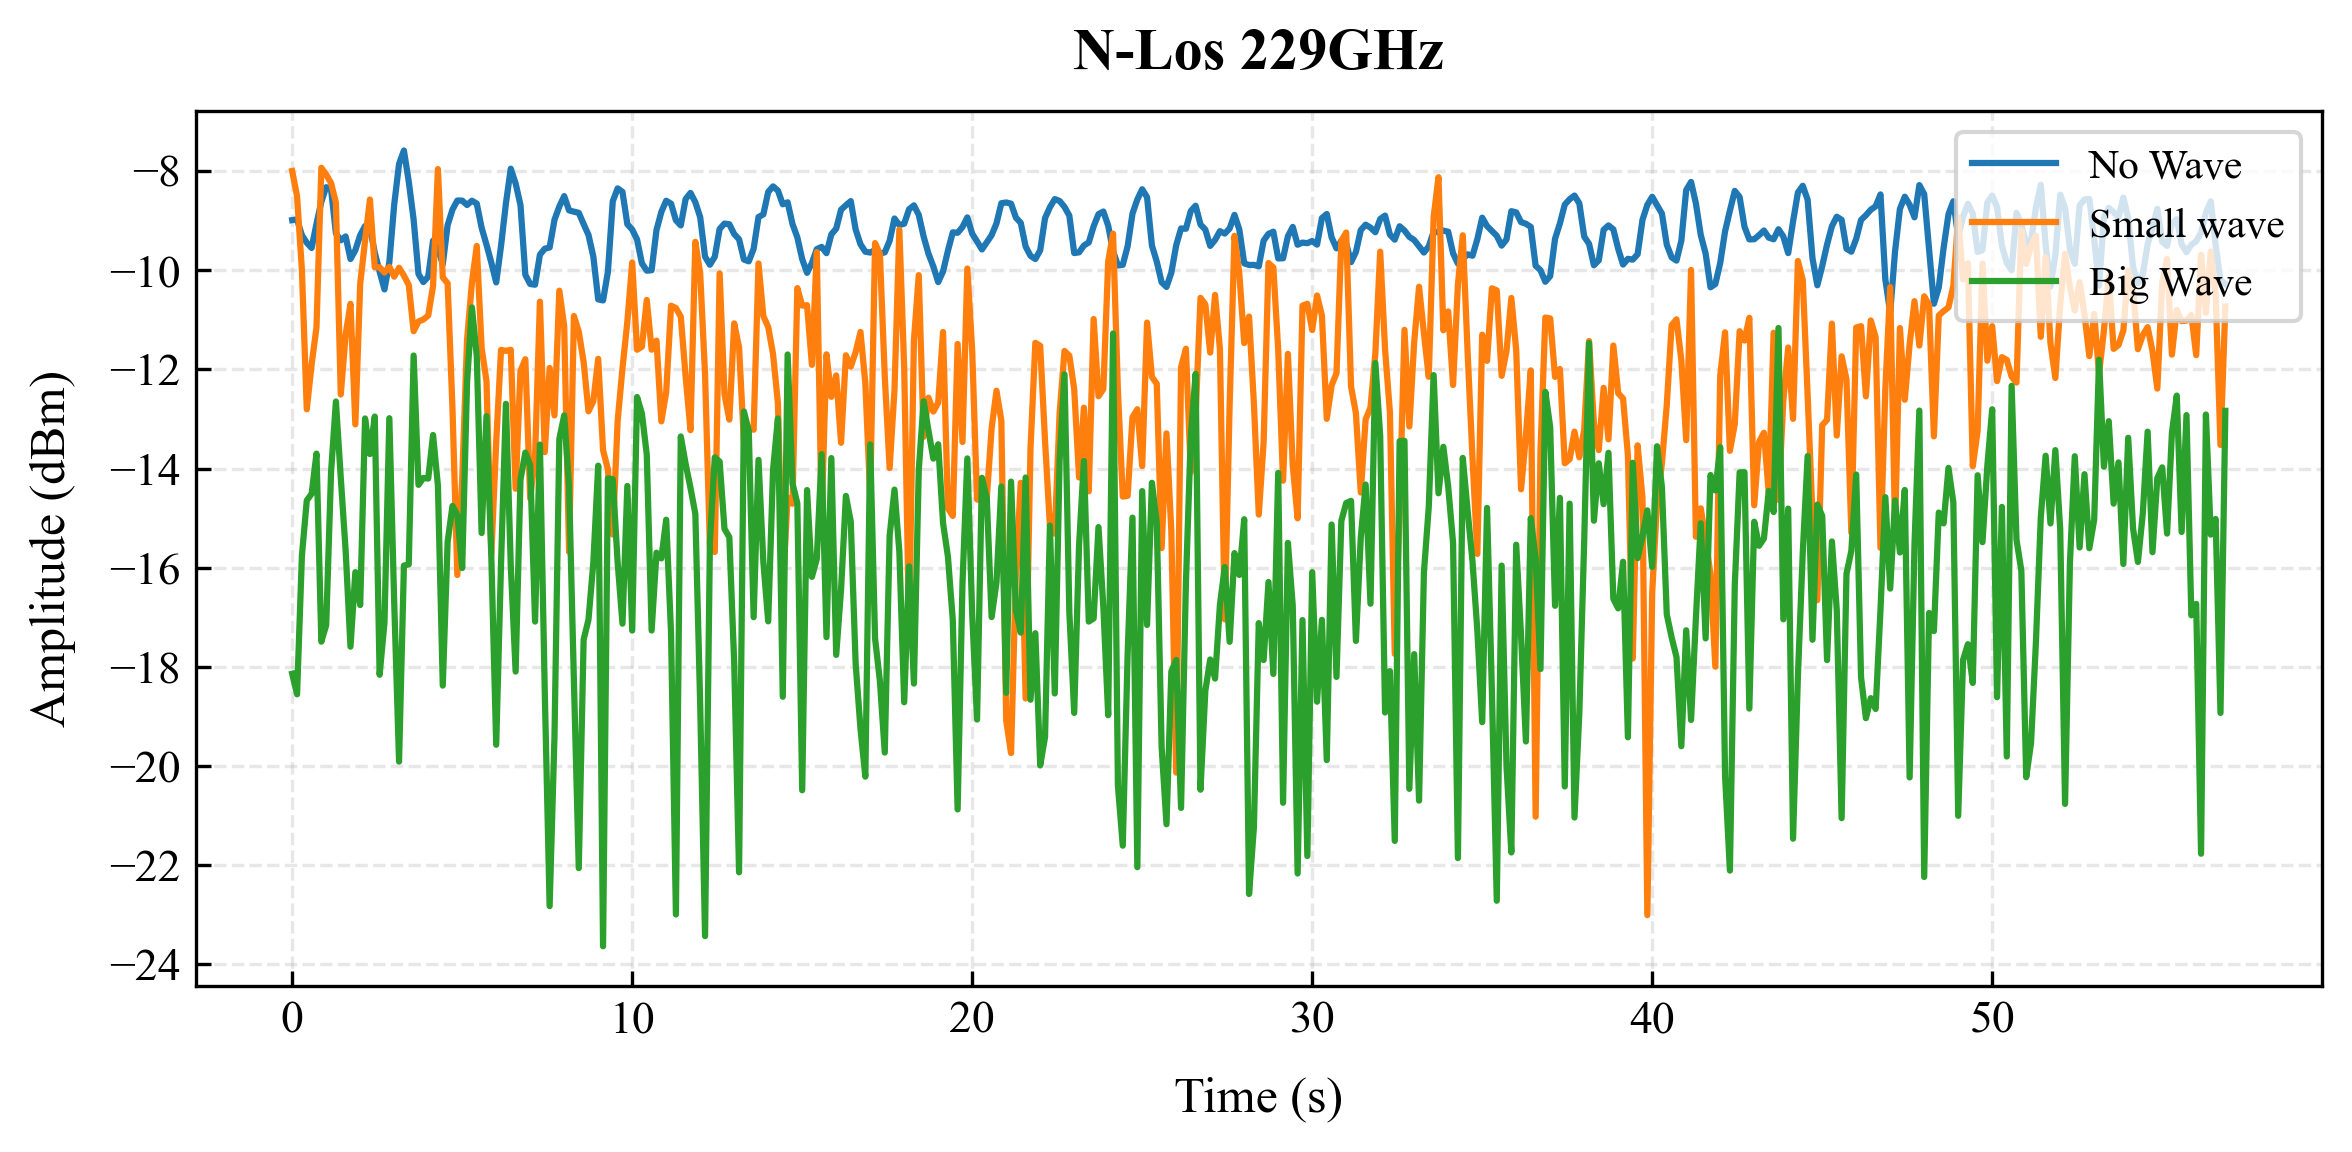
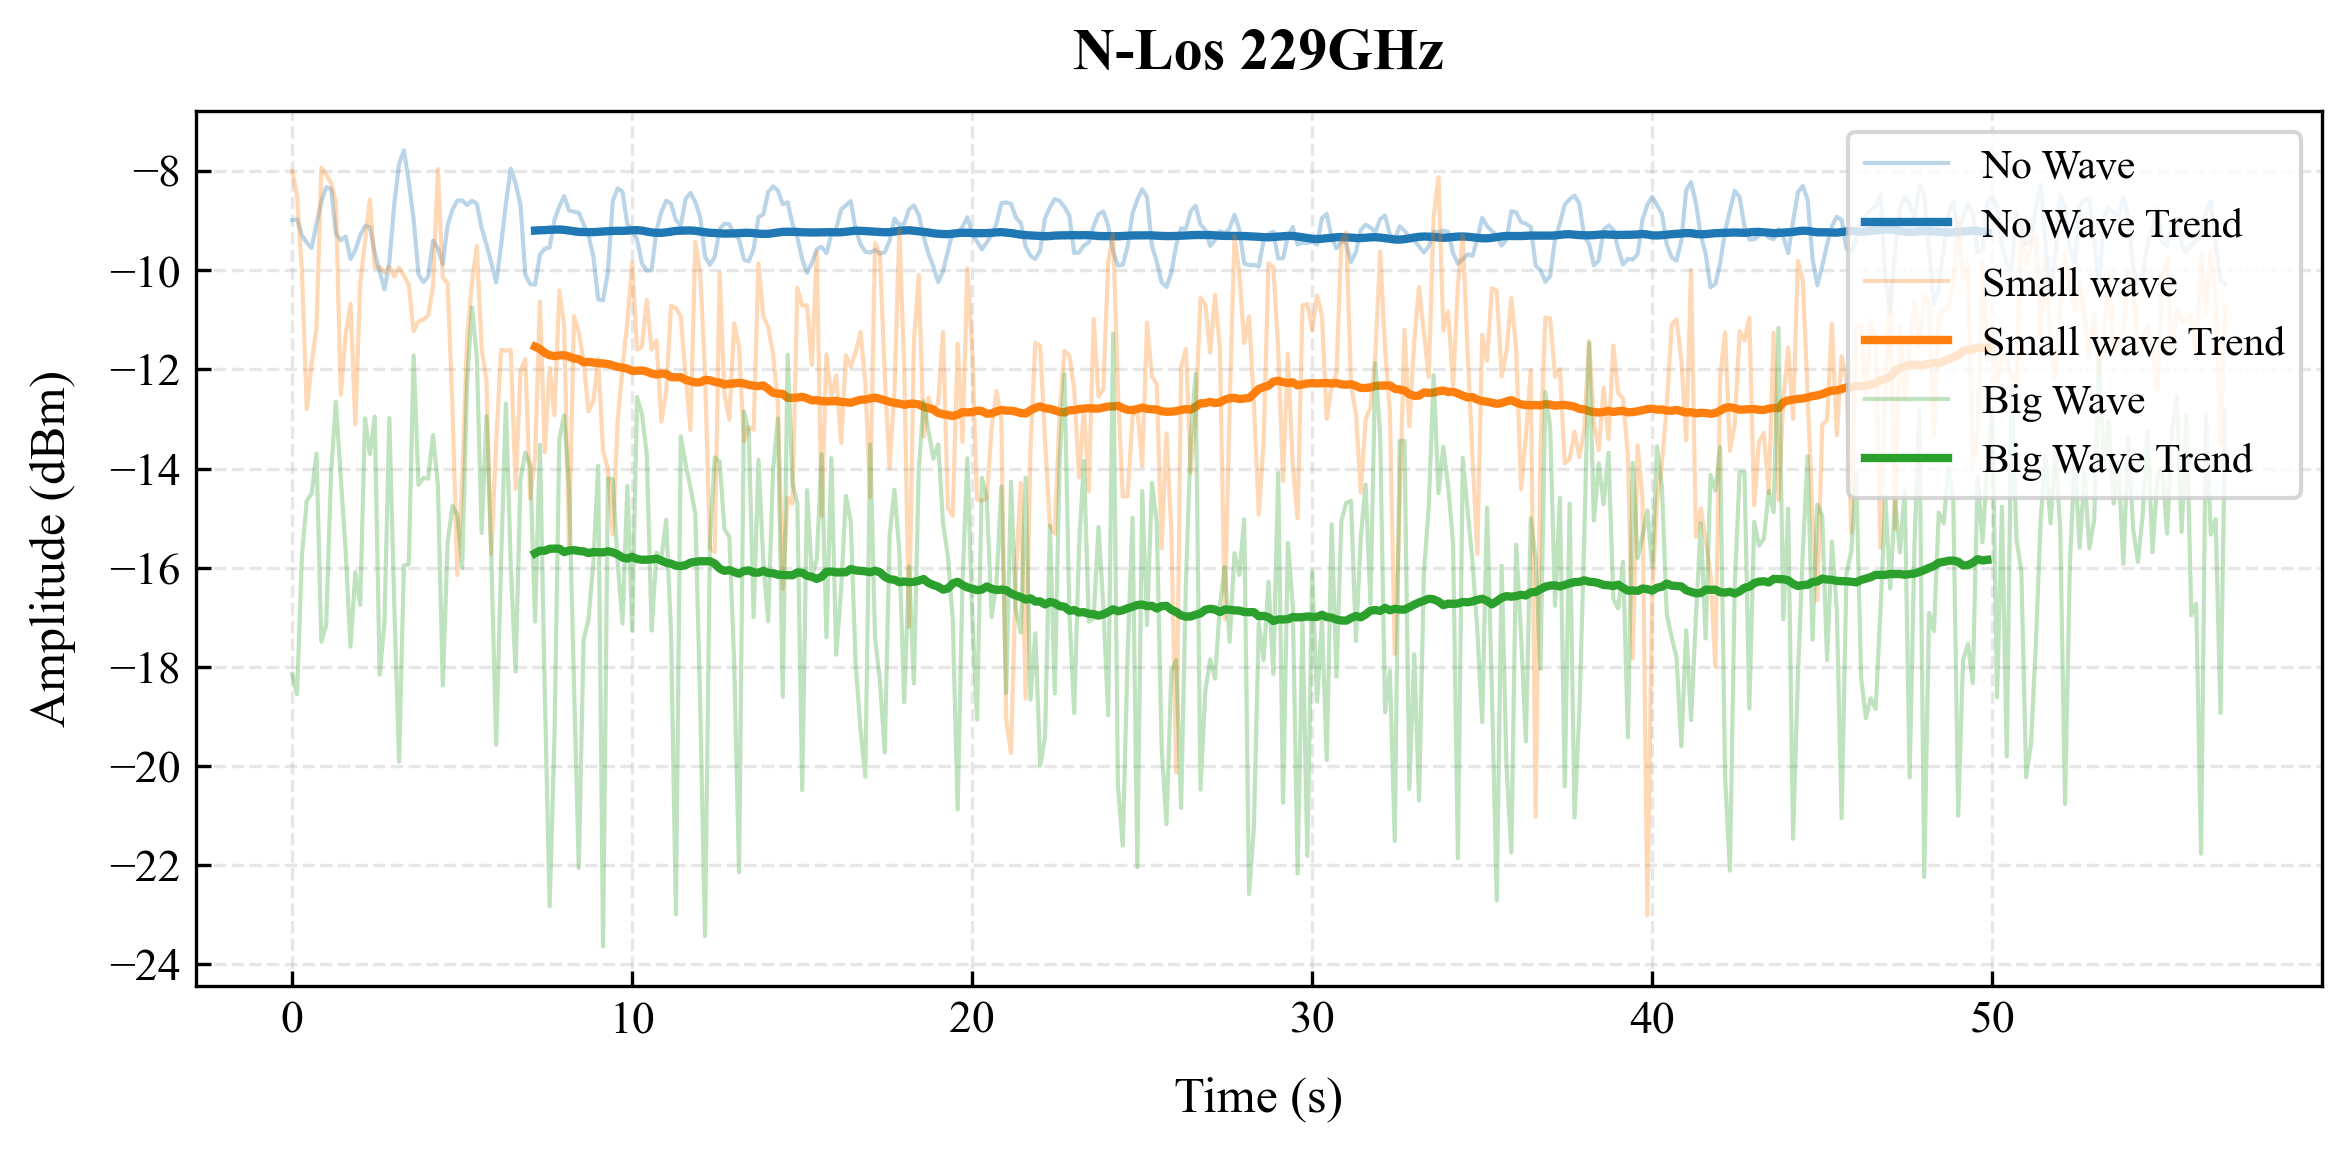
update

Changed region(s): [[0.1241, 0.0938, 0.9932, 0.8125]]

diff --git a/indoor_water_height.py b/indoor_water_height.py
@@ -173,15 +173,22 @@ def plot_data_list(data_list, title, save_path=None):
                     linewidth=1,
                     alpha=0.3)
             
-            # 计算滑动平均
-            window_size = 100  # 调整窗口大小以改变平滑程度
-            smoothed = pd.Series(values).rolling(window=window_size, center=True).mean()
-            
-            # 绘制平滑曲线
-            ax1.plot(x_values, smoothed, 
-                    color=colors[i % len(colors)],
-                    linewidth=2,
-                    label=f'{k} Trend')
+            # 根据数据类型选择不同的处理方式
+            if "No Wave" in k:
+                # 无浪状态使用均值线
+                mean_value = np.mean(values)
+                ax1.axhline(y=mean_value, 
+                          color=colors[i % len(colors)],
+                          linewidth=2,
+                          label=f'{k} Mean ({mean_value:.1f} dBm)')
+            else:
+                # 小浪和大浪状态使用滑动平均
+                window_size = 100  # 调整窗口大小以改变平滑程度
+                smoothed = pd.Series(values).rolling(window=window_size, center=True).mean()
+                ax1.plot(x_values, smoothed, 
+                        color=colors[i % len(colors)],
+                        linewidth=2,
+                        label=f'{k} Trend')
     
     # 设置标题
     plt.title(title, pad=10, fontsize=14, fontweight='bold')
@@ -390,6 +397,9 @@ if __name__ == '__main__':
     plot_data_list(nlos_30_little_list[221], "N-Los 30 221GHz", os.path.join(pic_base, "nlos_30_221.png"))
     plot_data_list(nlos_30_little_list[260], "N-Los 30 260GHz", os.path.join(pic_base, "nlos_30_260.png"))
     plot_data_list(nlos_30_little_list[320], "N-Los 30 320GHz", os.path.join(pic_base, "nlos_30_320.png"))
+    plot_data_list(nlos_30_little_list[160], "(a) 160GHz-30°", os.path.join(pic_base, "nlos_30_160.png"))
+    plot_data_list(nlos_30_little_list[221], "(b) 221GHz-30°", os.path.join(pic_base, "nlos_30_221.png"))
+    plot_data_list(nlos_30_little_list[320], "(c) 320GHz-30°", os.path.join(pic_base, "nlos_30_320.png"))
 
     nlos_45_little_list = {
         120: {
@@ -429,3 +439,6 @@ if __name__ == '__main__':
     plot_data_list(nlos_45_little_list[221], "N-Los 45 221GHz", os.path.join(pic_base, "nlos_45_221.png"))
     plot_data_list(nlos_45_little_list[260], "N-Los 45 260GHz", os.path.join(pic_base, "nlos_45_260.png"))
     plot_data_list(nlos_45_little_list[320], "N-Los 45 320GHz", os.path.join(pic_base, "nlos_45_320.png"))
+    plot_data_list(nlos_45_little_list[160], "(d) 160GHz-45°", os.path.join(pic_base, "nlos_45_160.png"))
+    plot_data_list(nlos_45_little_list[221], "(e) 221GHz-45°", os.path.join(pic_base, "nlos_45_221.png"))
+    plot_data_list(nlos_45_little_list[320], "(f) 320GHz-45°", os.path.join(pic_base, "nlos_45_320.png"))

diff --git a/swimming_pool.py b/swimming_pool.py
@@ -186,7 +186,7 @@ def plot_data_list(data_list, title, save_path=None):
     for i, (k, data) in enumerate(data_list.items()):
         if isinstance(data, dict) and "Time" in data:
             # 处理带时间的数据
-            values = data["Value"][1:]
+            values = data["Value"][1:]/2
             x_values = np.arange(len(values))
             
             # 绘制半透明的原始数据
@@ -209,7 +209,7 @@ def plot_data_list(data_list, title, save_path=None):
         else:
             # 处理普通数据
             x_values = np.arange(len(data[4][1:])) / 7.0  # 转换为秒
-            values = data[4][1:]
+            values = data[4][1:]/2
             
             # 绘制半透明的原始数据
             ax1.plot(x_values, values,
@@ -219,7 +219,7 @@ def plot_data_list(data_list, title, save_path=None):
                     alpha=0.3)
             
             # 计算滑动平均
-            window_size = 50  # 调整窗口大小以改变平滑程度
+            window_size = 100  # 调整窗口大小以改变平滑程度
             smoothed = pd.Series(values).rolling(window=window_size, center=True).mean()
             
             # 绘制平滑曲线
@@ -379,7 +379,7 @@ if __name__ == '__main__':
             "Big Wave": data_dict['nlos_high_big_wave'][229][150:550]
         }
     }
-    plot_data_list(nlos_high_list[220], "N-Los 220GHz", os.path.join(pic_base, "nlos_high_220.png"))
+    plot_data_list(nlos_high_list[220], "(b) N-Los 220GHz", os.path.join(pic_base, "nlos_high_220.png"))
     plot_data_list(nlos_high_list[225], "N-Los 225GHz", os.path.join(pic_base, "nlos_high_225.png"))
     plot_data_list(nlos_high_list[229], "N-Los 229GHz", os.path.join(pic_base, "nlos_high_229.png"))
     #
@@ -459,6 +459,6 @@ if __name__ == '__main__':
     }
     plot_data_list(nlos_low_list[140], "N-Los 140GHz", os.path.join(pic_base, "nlos_low_140.png"))
     plot_data_list(nlos_low_list[120], "N-Los 120GHz", os.path.join(pic_base, "nlos_low_120.png"))
-    plot_data_list(nlos_low_list[160], "N-Los 160GHz", os.path.join(pic_base, "nlos_low_160.png"))
+    plot_data_list(nlos_low_list[160], "(a) N-Los 160GHz", os.path.join(pic_base, "nlos_low_160.png"))
 
 

diff --git a/cdf.py b/cdf.py
@@ -245,7 +245,7 @@ def cdf_for_swimming_poll():
         }
     }
     cdf_rice([cut_data(x) for x in nlos_high_list[220].values()],
-             save_path=os.path.join(save_path_base, '_nlos_high_no_wave.png'), title='N-Los 220GHz', noice_level=39)
+             save_path=os.path.join(save_path_base, '_nlos_high_no_wave.png'), title='(b) N-Los 220GHz', noice_level=39)
     cdf_rice([cut_data(x) for x in nlos_high_list[225].values()],
              save_path=os.path.join(save_path_base, '_nlos_high_little_wave.png'), title='N-Los 225GHz', noice_level=39)
     cdf_rice([cut_data(x) for x in nlos_high_list[229].values()],
@@ -329,7 +329,7 @@ def cdf_for_swimming_poll():
     cdf_rice([cut_data(x) for x in nlos_low_list[120].values()],
              save_path=os.path.join(save_path_base, '_nlos_low_little_wave.png'), title='N-Los 120GHz', noice_level=38)
     cdf_rice([cut_data(x) for x in nlos_low_list[160].values()],
-             save_path=os.path.join(save_path_base, '_nlos_low_big_wave.png'), title='N-Los 160GHz', noice_level=38)
+             save_path=os.path.join(save_path_base, '_nlos_low_big_wave.png'), title='(a) N-Los 160GHz', noice_level=38)
 
 
 if __name__ == '__main__':

diff --git a/cdf_for_indoor_water.py b/cdf_for_indoor_water.py
@@ -219,10 +219,24 @@ def cdf_for_indoor_water_with_cut_data():
             
             # 只在有足够数据时绘图
             if len(data_list) == 3:
+                if degree == '30' and freq == 160:
+                    prefix = '(a) '
+                elif degree == '30' and freq == 221:
+                    prefix = '(b) '
+                elif degree == '30' and freq == 320:
+                    prefix = '(c) '
+                elif degree == '45' and freq == 160:
+                    prefix = '(d) '
+                elif degree == '45' and freq == 221:
+                    prefix = '(e) '
+                elif degree == '45' and freq == 320:
+                    prefix = '(f) '
+                else:
+                    prefix = ''
                 cdf_rice(
                     [cut_data(x) for x in data_list],
                     save_path=os.path.join(save_path_base, f'_{degree}度_{freq}GHz.png'),
-                    title=f'{degree}Degree, {freq}GHz',
+                    title=f'{prefix}{freq}GHz-{degree}°',
                     noice_level=39 if degree == '30' else 41
                 )
             else:
